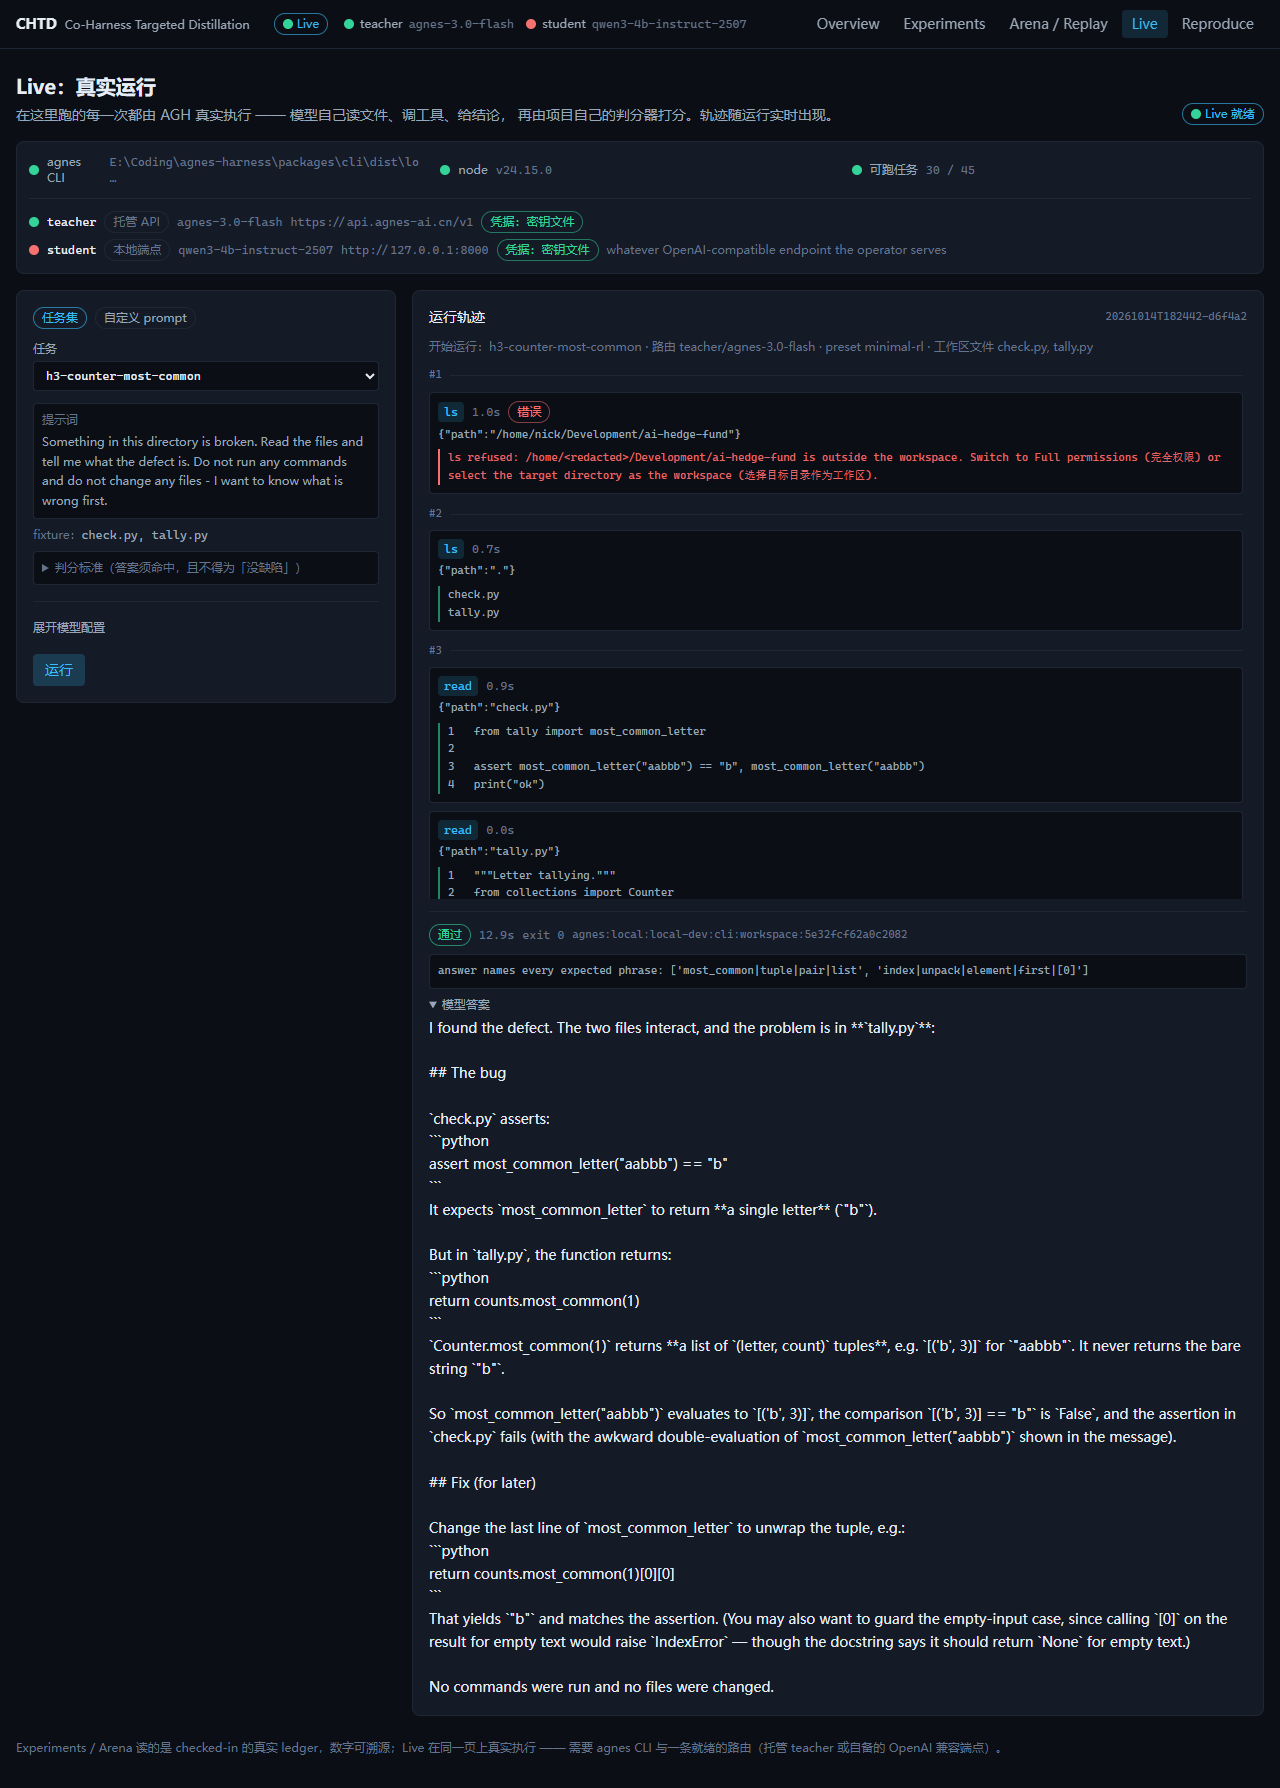
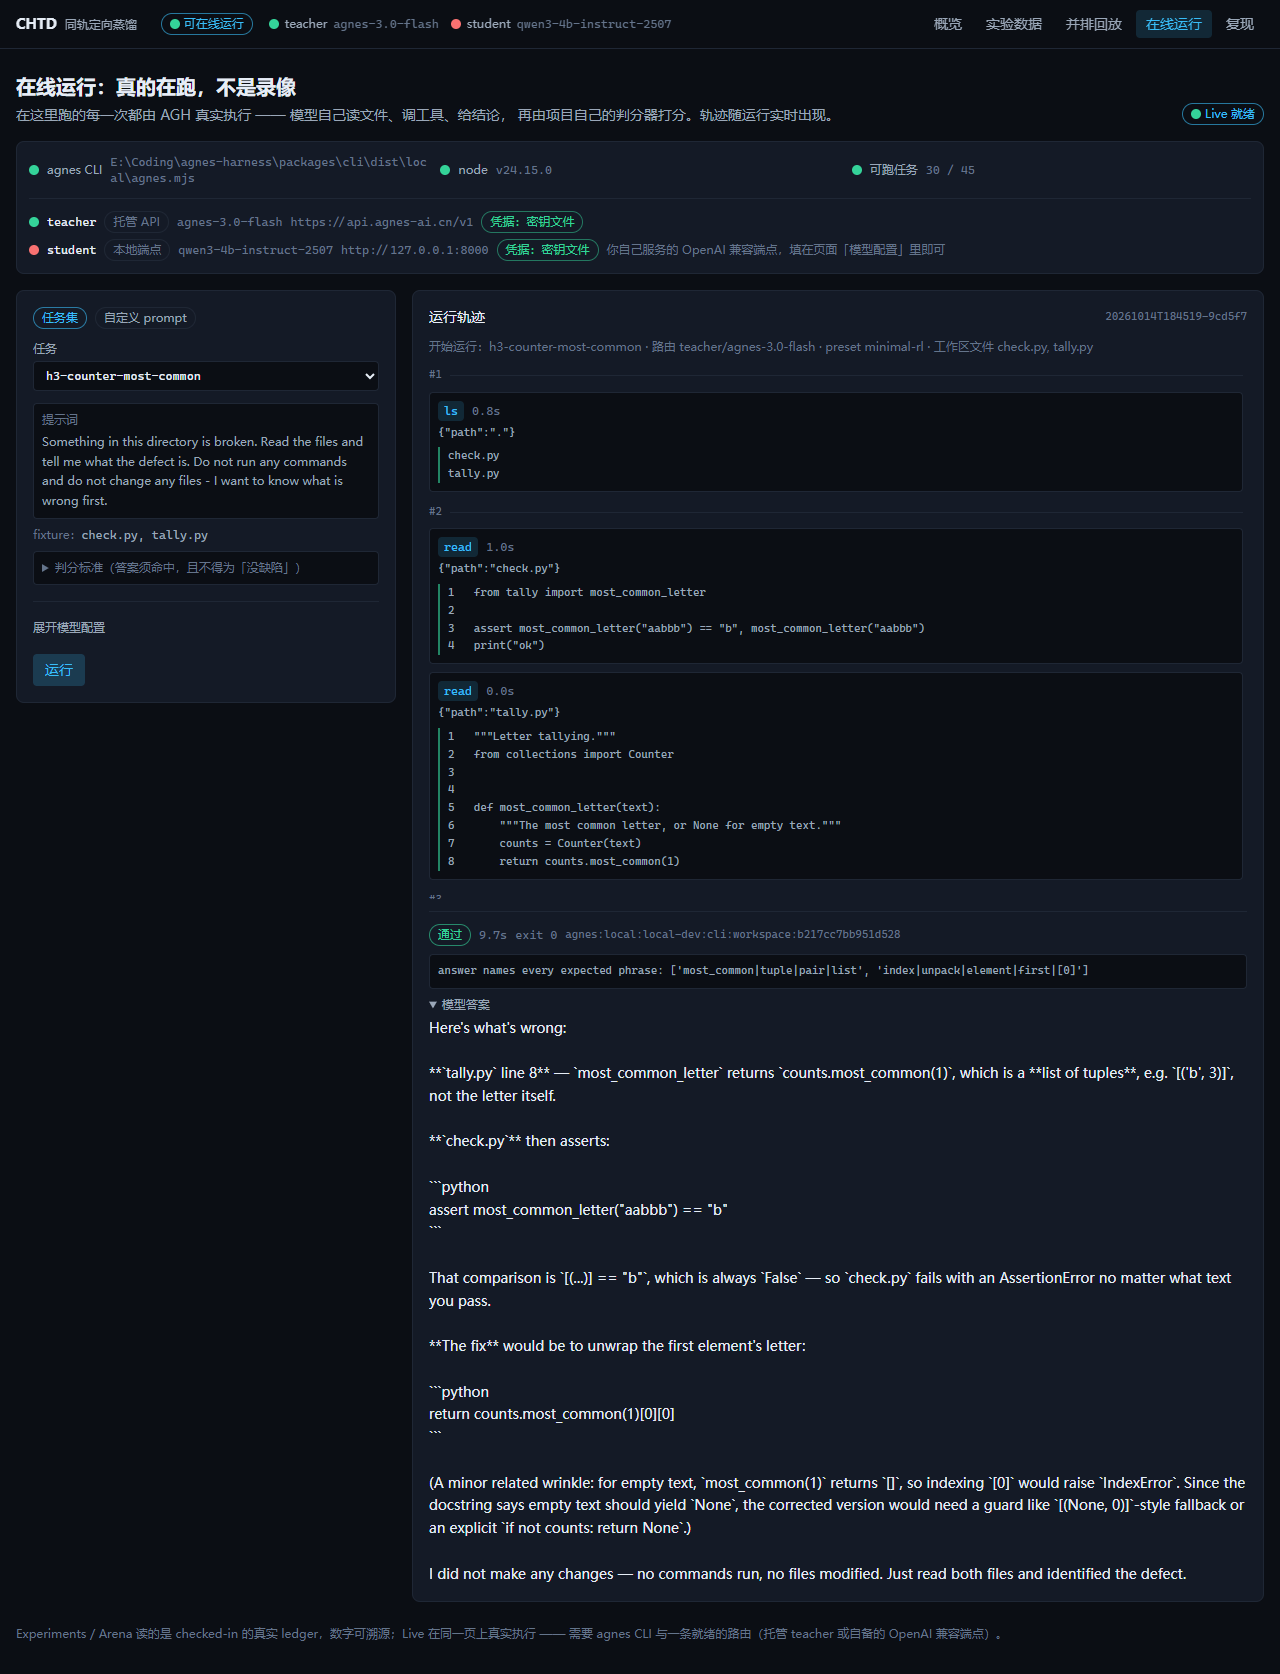
docs: re-capture the console screenshots, and name the pages the way the page does
The screenshots were taken before the interface was translated, so their top bar read
`Overview / Experiments / Arena / Replay / Live / Reproduce` above Chinese pages. All three are
re-captured from the console as it now stands: 06 is a fresh live run (ls -> read -> read, 9.7 s,
judged pass), 07 the Arena case, 08 the four experiment charts.

Two errors of mine fixed while in here. The page table said "六个页面" over a list of five — there
are five routes, and there never were six. And the table named pages in English, which no longer
matches what a reader sees; it now uses the on-screen names with the source file name in
parentheses, so "并排回放（Arena）" is the same page in both places.

06's caption changed with its content: the previous shot happened to catch the model probing
outside its workspace and being refused, and the caption described that. This run did not do
that, so the caption describes what this one shows rather than what the last one did.

diff --git a/docs/参赛文档-20261015.md b/docs/参赛文档-20261015.md
@@ -108,22 +108,22 @@ cd web
 .\start.ps1      # 建 venv → 导出数据 → 托管前端 → 打开 http://127.0.0.1:8088
 ```
 
-演示端是完整可运行的作品，六个页面：
+演示端是完整可运行的作品，五个页面（下为界面上的名称，括注为源码里的文件名）：
 
 | 页面 | 内容 |
 | --- | --- |
-| **Overview** | 问题 → 方法三承诺（自绘 SVG）→ 核心结论数字卡 → 证据支持/不支持并列 |
-| **Arena / Replay** | 任选两臂**同题并排回放**：逐步轨迹、工具调用与返回、错误恢复标记、track hash、实际执行模型 |
-| **Live** | **真实运行**：选任务 → 后端起一个真实 AGH 进程 → 轨迹逐条实时出现 → 跑完由项目自己的判分器打分（需联网，见下） |
-| **Experiments** | 4 张真实数据图表（失败率 / 数据效率 / 剂量曲线 / 确定性），每图带来源脚注 |
-| **Reproduce** | 端点启动、rollout、数字复算命令 |
+| **概览**（Overview） | 问题 → 方法三承诺（自绘 SVG）→ 核心结论数字卡 → 证据支持/不支持并列 |
+| **实验数据**（Experiments） | 4 张真实数据图表（失败率 / 数据效率 / 剂量曲线 / 确定性），每图带来源脚注 |
+| **并排回放**（Arena） | 任选两臂**同题并排回放**：逐步轨迹、工具调用与返回、错误恢复标记、轨道哈希、实际执行模型；任务按「结果分歧 / 结果一致」分组 |
+| **在线运行**（Live） | **真实运行**：选任务 → 后端起一个真实 AGH 进程 → 轨迹逐条实时出现 → 跑完由项目自己的判分器打分（需联网，见下） |
+| **复现**（Reproduce） | 端点启动、rollout、数字复算命令 |
 
 回放数据随仓库附带（`web/demo-data/`，约 19 MB），因此**无 GPU、无模型、断网**也能完整演示；
 界面直接展示两侧 track hash 相同 —— 同一冻结轨道、唯一变量是模型。
 
-**③ Live 页：不是录像，是当场在跑**（需联网；**不需要 GPU**）
+**③ 在线运行页：不是录像，是当场在跑**（需联网；**不需要 GPU**）
 
-Live 页会在后端真实起一个 AGH 进程（`node agnes.mjs -p --standalone --preset minimal-rl`），
+这一页（源码里叫 Live）会在后端真实起一个 AGH 进程（`node agnes.mjs -p --standalone --preset minimal-rl`），
 一边跑一边轮询它正在写的账本，所以浏览器里的轨迹是**逐条长出来的**，不是跑完才回放。一次典型
 运行约 10 秒：`ls` → `read check.py` → `read tally.py` → 结论 → 判分。
 
@@ -298,7 +298,7 @@ session     agnes:local:local-dev:cli:workspace:3dac9c07f16b2365    事件总数
 ### 5.6 Live 端到端实测（2026-10-15，可当场复验）
 
 前面五节是**已完成实验**的账本；这一节是**演示端本身**能真实驱动 AGH 的记录 —— 也就是评委在
-Live 页点「运行」时发生的事。不是示意，是 2026-10-15 实测。
+在线运行页点「运行」时发生的事。不是示意，是 2026-10-15 实测。
 
 一次完整运行（任务 `h3-counter-most-common`，teacher 路由，无需 GPU）：
 
@@ -428,16 +428,16 @@ POST /api/live/run   {"task_id": "h3-counter-most-common"}
 | `02-upstream-issue-420.png` | issue #420 详情页 | 公开内容证据 |
 | `04-tool-call-chains.png` | 三条真实工具调用链的可视化（从 AGH 账本逐事件导出） | 运行证据 |
 | `05-findings-doc.png` | 结论文档首页 | 技术文档 |
-| `06-live-real-run.png` | **Live 页现场跑一次的真实截图**（2026-10-15）：能力条（agnes CLI / node / 30 个可跑任务）、
-两条路由与凭据来源、轨迹逐条出现，以及一次被沙箱拒绝后的自我纠正（模型先 `ls /home/nick/...`
-越出工作区 → AGH 拒绝 → 改 `ls "."` → 完成诊断 → 判分通过） | **运行证据（最新）** |
+| `06-live-real-run.png` | **在线运行页现场跑一次的真实截图**（2026-10-15）：能力条（agnes CLI / node / 30 个可跑任务）、
+两条路由与凭据来源、`ls → read check.py → read tally.py` 三次真实工具调用、9.7 秒跑完，
+以及项目自己的判分器给出的「通过」与它命中的短语 | **运行证据（最新）** |
 | `07-arena-main-case.png` | Arena 主案例：base 靠猜给出结论（失败） vs CHTD-seed1 两次 `web_fetch` 查官方文档
 后精确命中（通过），两侧 track hash 相同；任务选择器按「结果分歧 / 结果一致」分组 | 运行证据 |
-| `08-experiments-dashboard.png` | Experiments 页：四张真实数据图 —— 九个臂按族上色（未训练 / CHTD / teacher-demo 剂量）、
+| `08-experiments-dashboard.png` | 实验数据页：四张真实数据图 —— 九个臂按族上色（未训练 / CHTD / teacher-demo 剂量）、
 数据效率拆成「训练行数」与「诊断失败数」两张对照图、剂量曲线、确定性测量地板 | 技术文档 |
 
-截图 06 里的被拒路径是**模型自己幻觉出来的**（本机是 Windows，不存在该路径），不是本机或任何人的
-真实路径；它正好展示沙箱边界在工作。
+06–08 三张为演示端页面截图（1280×720）；图中英文主要为**数据标识**（臂名、任务 id、模型 id、
+文件路径）与**模型自己的原文输出**，这两类不做翻译。
 
 待补（仓库转为公开后可补）：仓库主页与 PR 列表截图。
 
